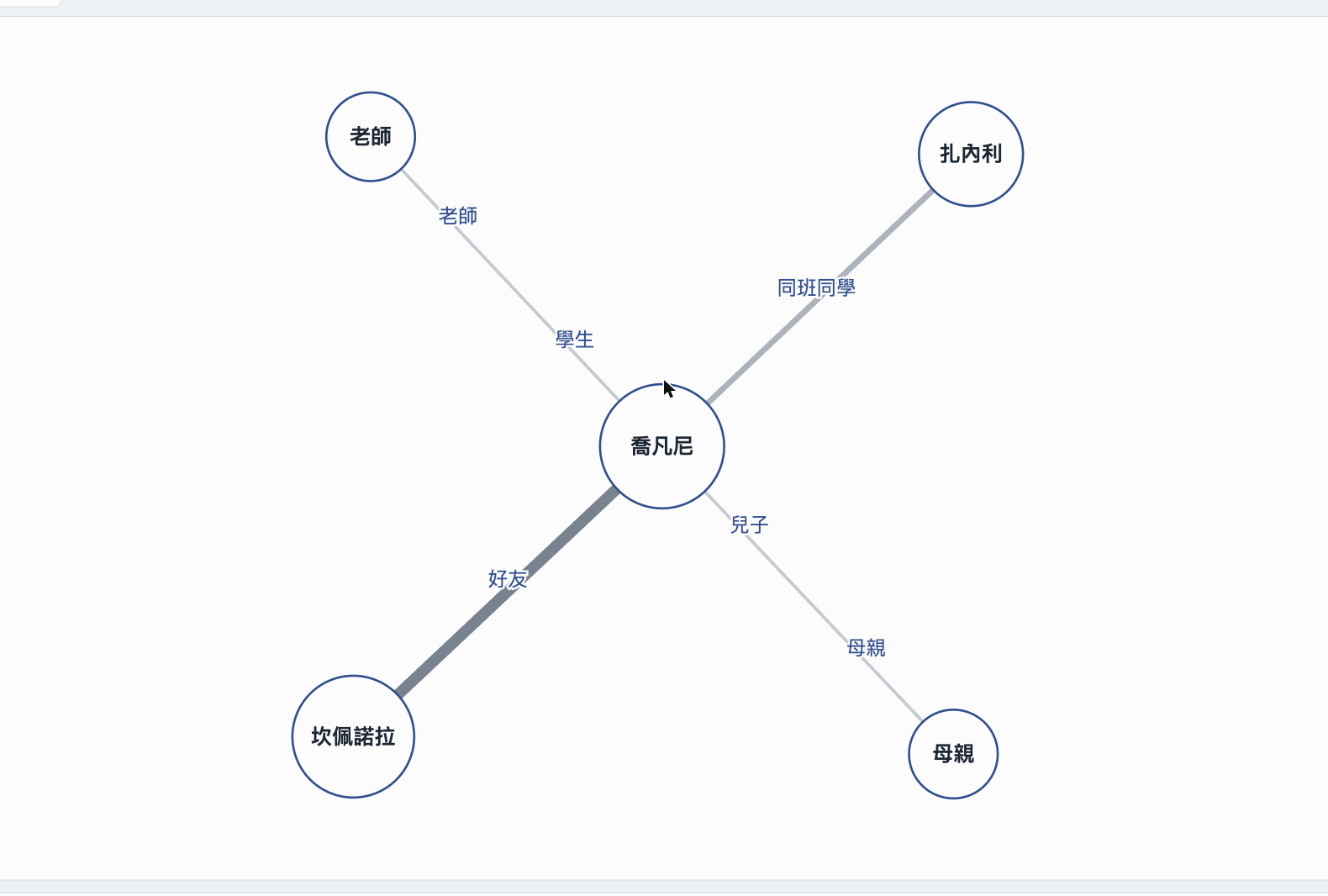
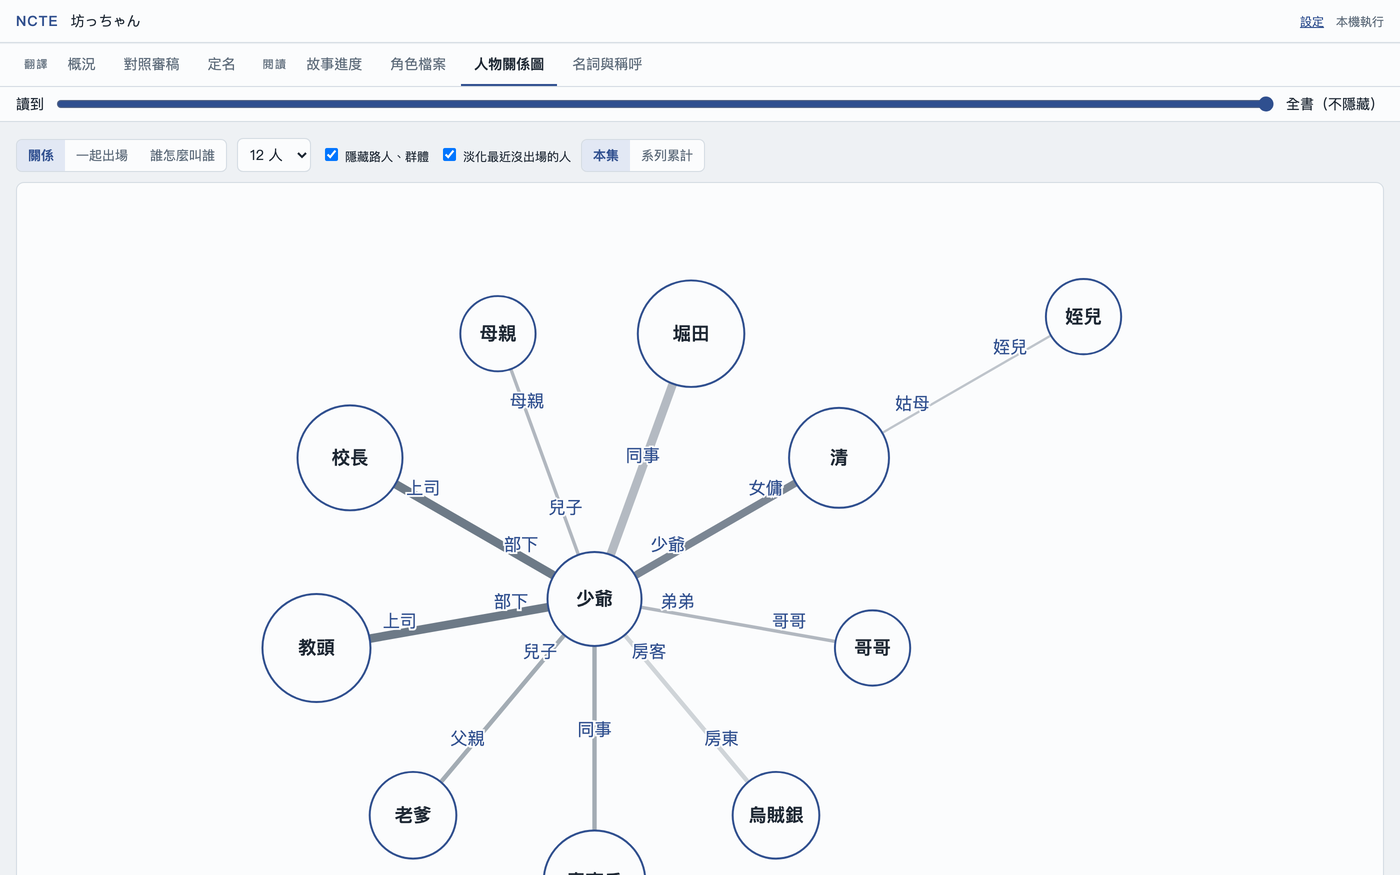
README screenshots from the classic novel's first two chapters with the new graph and bilingual people page; relation table columns on one line
Claude-Session: https://claude.ai/code/session_012j4efaWWotPVmsLHDR3hUW

diff --git a/src/ncte/gui/static/app.js b/src/ncte/gui/static/app.js
@@ -486,7 +486,7 @@ function relationList(d, pid, upto, nm) {
       <td class="mono small">§${r.at}</td><td class="small">${ev ? bi(ev.quote, ev.zh) : ""}</td></tr>`;
   }).join("");
   return `<div style="margin-top:12px"><strong>人物關係</strong> <span class="muted small">對方是他的什麼</span>
-    <div class="scroll"><table><tr><th>對方</th><th>關係</th><th>類型</th><th>從</th><th>原文依據</th></tr>${rows}</table></div></div>`;
+    <div class="scroll"><table class="rel-table"><tr><th>對方</th><th>關係</th><th>類型</th><th>從</th><th>原文依據（附譯文）</th></tr>${rows}</table></div></div>`;
 }
 // one row per person: who on the left, each form they use as a small tag (most used first)
 function byPerson(list, key, label) {

diff --git a/src/ncte/gui/static/app.css b/src/ncte/gui/static/app.css
@@ -85,3 +85,4 @@ main.wide{max-width:none}
 
 .edge .rel-label.soft{opacity:0;transition:opacity .15s} .edge:hover .rel-label.soft{opacity:1}
 .legend{display:flex;flex-wrap:wrap;gap:6px 16px;padding:6px 8px;color:var(--muted)} .legend span{display:inline-flex;align-items:center;gap:6px}
+.rel-table td:nth-child(-n+4),.rel-table th:nth-child(-n+4){white-space:nowrap}

diff --git a/docs/todo.md b/docs/todo.md
@@ -17,7 +17,6 @@
 - **讓模型主動檢索**：查前文、查之前的譯法、查目前為止的事實，先用在覆核與審稿。
 - **跨場景平行翻譯**：在明確的換場記號處平行翻，縮短時間。
 - **網頁版逐步圖文教學**：上傳、開始翻譯、匯出的按鈕位置，截圖用公共領域作品。
-- **關係圖截圖**：改用『坊っちゃん』重跑的關係圖（目前『銀河鉄道の夜』只抽前 200 段，關係較少）。
 - **本機模型測試**：需要磁碟空間。
 - **測試缺口**：公共領域作品都只抽前段；正式的人工標註評測（`ncte eval run`）還沒跑。
 

diff --git a/README.md b/README.md
@@ -24,7 +24,7 @@ flowchart LR
 - **費用**：一本輕小說（約 14 萬字）約 US$4.3、1 小時 40 分。預算上限自動設為估價的 2 倍。
 
 ## 畫面
-以下截圖都是青空文庫的公共領域作品（宮沢賢治『銀河鉄道の夜』前段）。
+以下截圖都是青空文庫的公共領域作品（夏目漱石『坊っちゃん』前兩章）。
 
 **對照審稿**：原文、譯文、說話者並排；有疑點的台詞標出程式與模型的意見。點譯文可以直接修改。
 ![對照審稿](docs/images/review.png)
